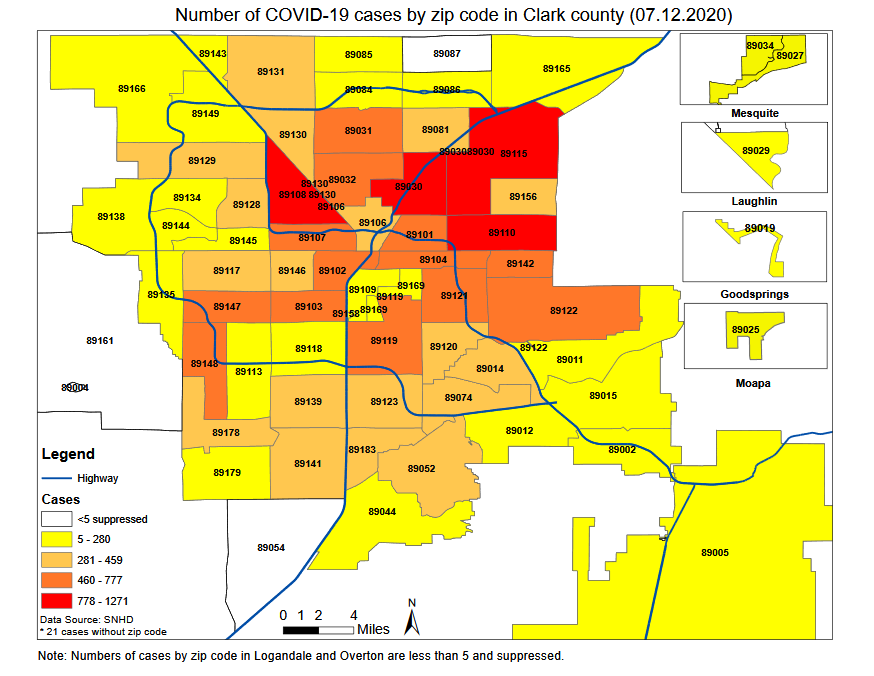
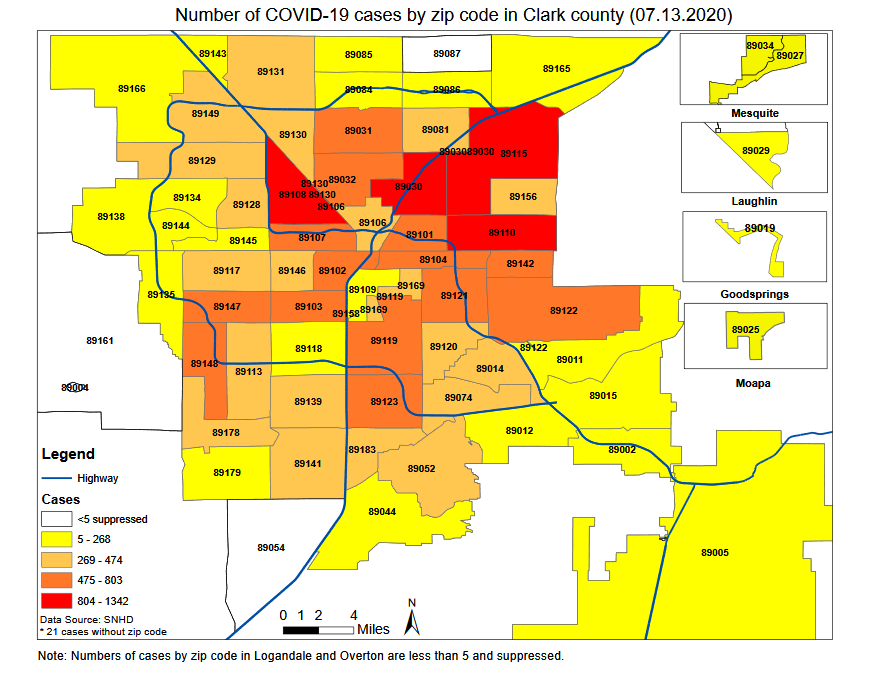
Day 132

diff --git a/src/pages/clarkcounty.js b/src/pages/clarkcounty.js
@@ -147,6 +147,7 @@ class ClarkPage extends Component {
 				'7/10/20',
 				'7/11/20',
 				'7/12/20',
+				'7/13/20',
 			],
 			datasets: [
 				{
@@ -284,6 +285,7 @@ class ClarkPage extends Component {
 						22286,
 						23048,
 						23803,
+						24824,
 					],
 				},
 			],
@@ -422,6 +424,7 @@ class ClarkPage extends Component {
 				'7/10/20',
 				'7/11/20',
 				'7/12/20',
+				'7/13/20',
 			],
 			datasets: [
 				{
@@ -559,6 +562,7 @@ class ClarkPage extends Component {
 						837,
 						762,
 						755,
+						1021,
 					],
 				},
 			],
@@ -677,6 +681,7 @@ class ClarkPage extends Component {
 				'7/10/20',
 				'7/11/20',
 				'7/12/20',
+				'7/13/20',
 			],
 			datasets: [
 				{
@@ -794,6 +799,7 @@ class ClarkPage extends Component {
 						2251,
 						2266,
 						2266,
+						2305,
 					],
 				},
 			],
@@ -911,6 +917,7 @@ class ClarkPage extends Component {
 				'7/10/20',
 				'7/11/20',
 				'7/12/20',
+				'7/13/20',
 			],
 			datasets: [
 				{
@@ -1028,6 +1035,7 @@ class ClarkPage extends Component {
 						32,
 						15,
 						0,
+						39,
 					],
 				},
 			],
@@ -1166,6 +1174,7 @@ class ClarkPage extends Component {
 				'7/10/20',
 				'7/11/20',
 				'7/12/20',
+				'7/13/20',
 			],
 			datasets: [
 				{
@@ -1302,6 +1311,7 @@ class ClarkPage extends Component {
 						483,
 						483,
 						483,
+						498,
 					],
 					backgroundColor: 'maroon',
 				},
@@ -1429,6 +1439,7 @@ class ClarkPage extends Component {
 				'7/10/20',
 				'7/11/20',
 				'7/12/20',
+				'7/13/20',
 			],
 			datasets: [
 				{
@@ -1554,6 +1565,7 @@ class ClarkPage extends Component {
 						10,
 						0,
 						0,
+						15,
 					],
 				},
 			],
@@ -1692,6 +1704,7 @@ class ClarkPage extends Component {
 				'7/10/20',
 				'7/11/20',
 				'7/12/20',
+				'7/13/20',
 			],
 			datasets: [
 				{
@@ -1819,16 +1832,18 @@ class ClarkPage extends Component {
 						13.3,
 						13.3,
 						13.4,
-						13.3,
 						13.4,
-						14.1,
-						14.2,
+						13.3,
+						13.5,
 						14.3,
-						14.6,
-						14.6,
-						14.6,
-						15.0,
-						17.6,
+						14.4,
+						14.4,
+						14.5,
+						14.8,
+						14.9,
+						15.1,
+						17.8,
+						19.7,
 					],
 				},
 				{
@@ -1904,6 +1919,7 @@ class ClarkPage extends Component {
 						null,
 						null,
 						null,
+						6.9,
 						6.9,
 						6.9,
 						6.9,
@@ -2110,6 +2126,7 @@ class ClarkPage extends Component {
 						3.9,
 						3.9,
 						3.9,
+						3.9,
 					],
 				},
 			],
@@ -2120,7 +2137,7 @@ class ClarkPage extends Component {
 			datasets: [
 				{
 					label: 'Age of Cases',
-					data: [426, 1564, 2921, 11433, 4800, 2640],
+					data: [442, 1636, 3050, 11960, 4993, 2721],
 					backgroundColor: [
 						'rgb(54, 162, 235)', //blue
 						'rgb(255, 99, 132)', //salmon
@@ -2138,7 +2155,7 @@ class ClarkPage extends Component {
 			datasets: [
 				{
 					label: 'Sex',
-					data: [12126, 11467, 210],
+					data: [12645, 11969, 210],
 					backgroundColor: [
 						'rgb(255, 99, 132)',
 						'rgb(54, 162, 235)',
@@ -2180,7 +2197,7 @@ class ClarkPage extends Component {
 											</div>
 										</div>
 										<div className='card-value pt-4'>
-											<h1>23,803</h1>
+											<h1>24,824</h1>
 										</div>
 									</div>
 								</div>
@@ -2192,7 +2209,7 @@ class ClarkPage extends Component {
 											</div>
 										</div>
 										<div className='card-value pt-4'>
-											<h1>2,266</h1>
+											<h1>2,305</h1>
 										</div>
 									</div>
 								</div>
@@ -2204,7 +2221,7 @@ class ClarkPage extends Component {
 											</div>
 										</div>
 										<div className='card-value pt-4'>
-											<h1>66.6%</h1>
+											<h1>67.1%</h1>
 										</div>
 									</div>
 								</div>
@@ -2216,7 +2233,7 @@ class ClarkPage extends Component {
 											</div>
 										</div>
 										<div className='card-value pt-4'>
-											<h1>483</h1>
+											<h1>498</h1>
 										</div>
 									</div>
 								</div>

diff --git a/src/pages/nevada.js b/src/pages/nevada.js
@@ -142,6 +142,7 @@ class NevadaPage extends Component {
 				'7/10/20',
 				'7/11/20',
 				'7/12/20',
+				'7/13/20',
 			],
 			datasets: [
 				{
@@ -278,6 +279,7 @@ class NevadaPage extends Component {
 						26838,
 						27683,
 						28515,
+						29619,
 					],
 					fill: false, // Don't fill area under the line
 					backgroundColor: '#933A16', // Line color
@@ -417,6 +419,7 @@ class NevadaPage extends Component {
 				'7/10/20',
 				'7/11/20',
 				'7/12/20',
+				'7/13/20',
 			],
 			datasets: [
 				{
@@ -554,6 +557,7 @@ class NevadaPage extends Component {
 						930,
 						845,
 						832,
+						1104,
 					],
 					fill: false, // Don't fill area under the line
 					backgroundColor: '#933A16', // Bar color
@@ -693,6 +697,7 @@ class NevadaPage extends Component {
 				'7/10/20',
 				'7/11/20',
 				'7/12/20',
+				'7/13/20',
 			],
 			datasets: [
 				{
@@ -820,15 +825,16 @@ class NevadaPage extends Component {
 						543,
 						548,
 						558,
-						563,
-						567,
-						573,
-						582,
-						586,
+						564,
+						568,
+						575,
+						584,
 						589,
-						590,
-						591,
-						591,
+						593,
+						599,
+						604,
+						608,
+						609,
 					],
 					backgroundColor: 'maroon',
 				},
@@ -956,6 +962,7 @@ class NevadaPage extends Component {
 				'7/10/20',
 				'7/11/20',
 				'7/12/20',
+				'7/13/20',
 			],
 			datasets: [
 				{
@@ -1072,15 +1079,16 @@ class NevadaPage extends Component {
 						8,
 						5,
 						10,
+						6,
+						4,
+						7,
+						9,
 						5,
 						4,
 						6,
-						9,
+						5,
 						4,
-						3,
 						1,
-						1,
-						0,
 					],
 				},
 			],
@@ -1199,6 +1207,7 @@ class NevadaPage extends Component {
 				'7/10/20',
 				'7/11/20',
 				'7/12/20',
+				'7/13/20',
 			],
 			datasets: [
 				{
@@ -1318,6 +1327,7 @@ class NevadaPage extends Component {
 						7.9,
 						8.0,
 						8.1,
+						8.2,
 					],
 				},
 				{
@@ -1437,6 +1447,7 @@ class NevadaPage extends Component {
 						13.4,
 						13.4,
 						13.6,
+						13.4,
 					],
 				},
 				{
@@ -1492,6 +1503,7 @@ class NevadaPage extends Component {
 						null,
 						null,
 						null,
+						10.4,
 						10.4,
 						10.4,
 						10.4,
@@ -1677,6 +1689,7 @@ class NevadaPage extends Component {
 						6.0,
 						6.0,
 						6.0,
+						6.0,
 					],
 				},
 			],
@@ -1712,7 +1725,7 @@ class NevadaPage extends Component {
 										</div>
 									</div>
 									<div className='card-value pt-4'>
-										<h1>352,456</h1>
+										<h1>359,315</h1>
 									</div>
 								</div>
 							</div>
@@ -1724,7 +1737,7 @@ class NevadaPage extends Component {
 										</div>
 									</div>
 									<div className='card-value pt-4'>
-										<h1>324,678</h1>
+										<h1>330,561</h1>
 									</div>
 								</div>
 							</div>
@@ -1736,7 +1749,7 @@ class NevadaPage extends Component {
 										</div>
 									</div>
 									<div className='card-value pt-4'>
-										<h1>28,515</h1>
+										<h1>29,619</h1>
 									</div>
 								</div>
 							</div>
@@ -1748,7 +1761,7 @@ class NevadaPage extends Component {
 										</div>
 									</div>
 									<div className='card-value pt-4'>
-										<h1>591</h1>
+										<h1>609</h1>
 									</div>
 								</div>
 							</div>
